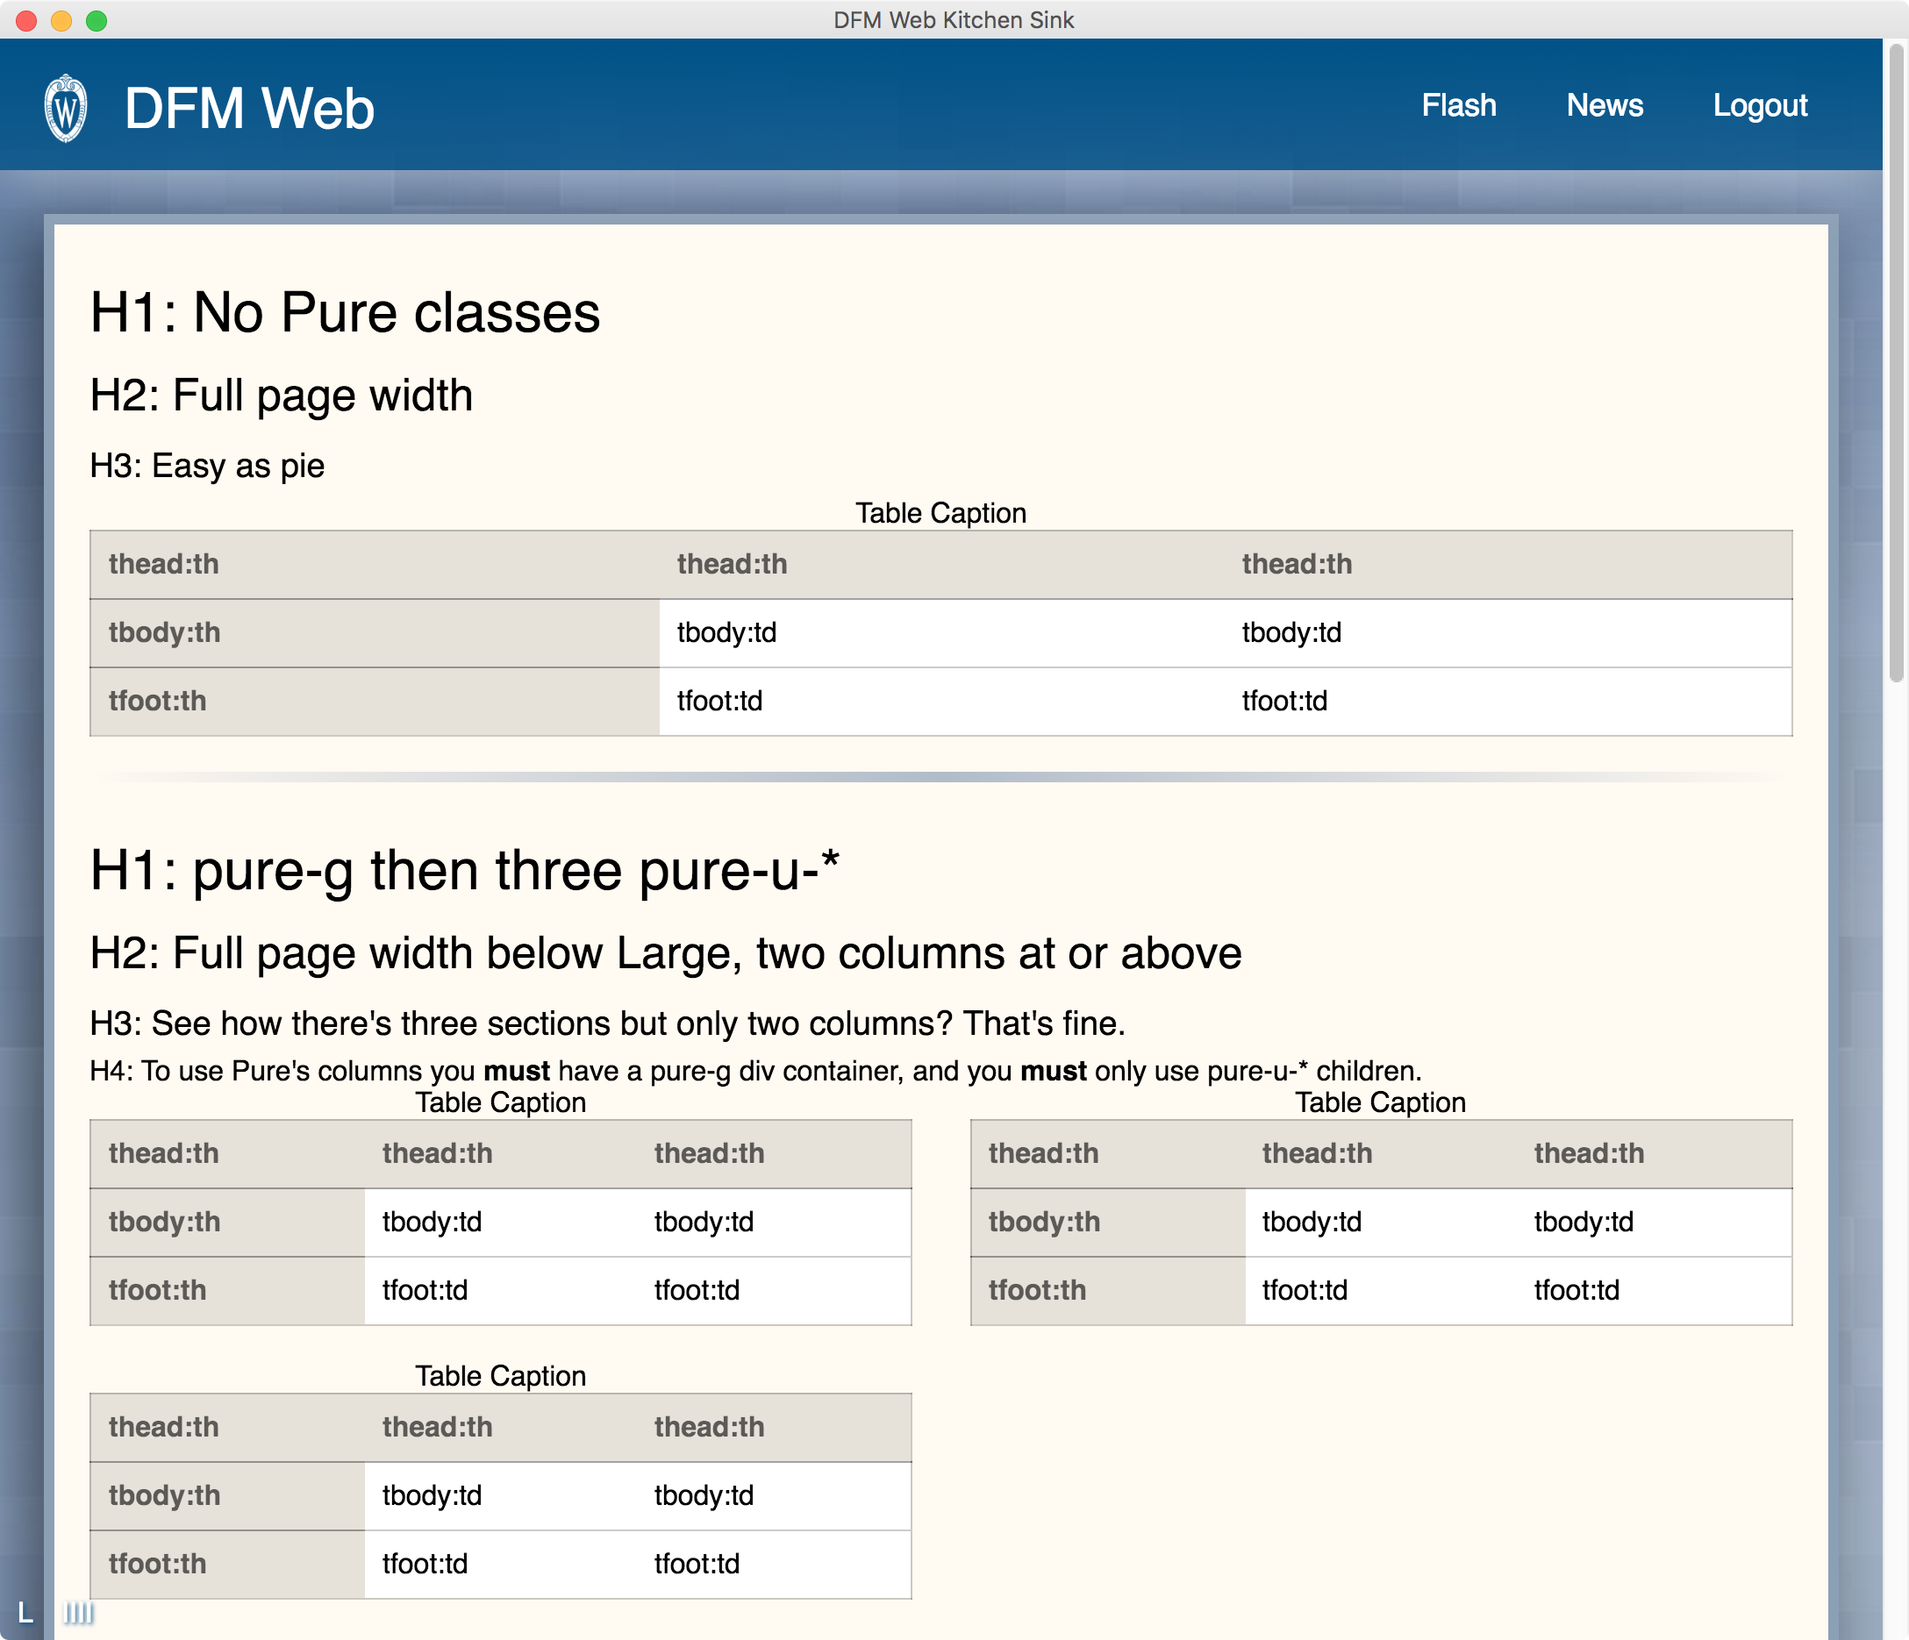
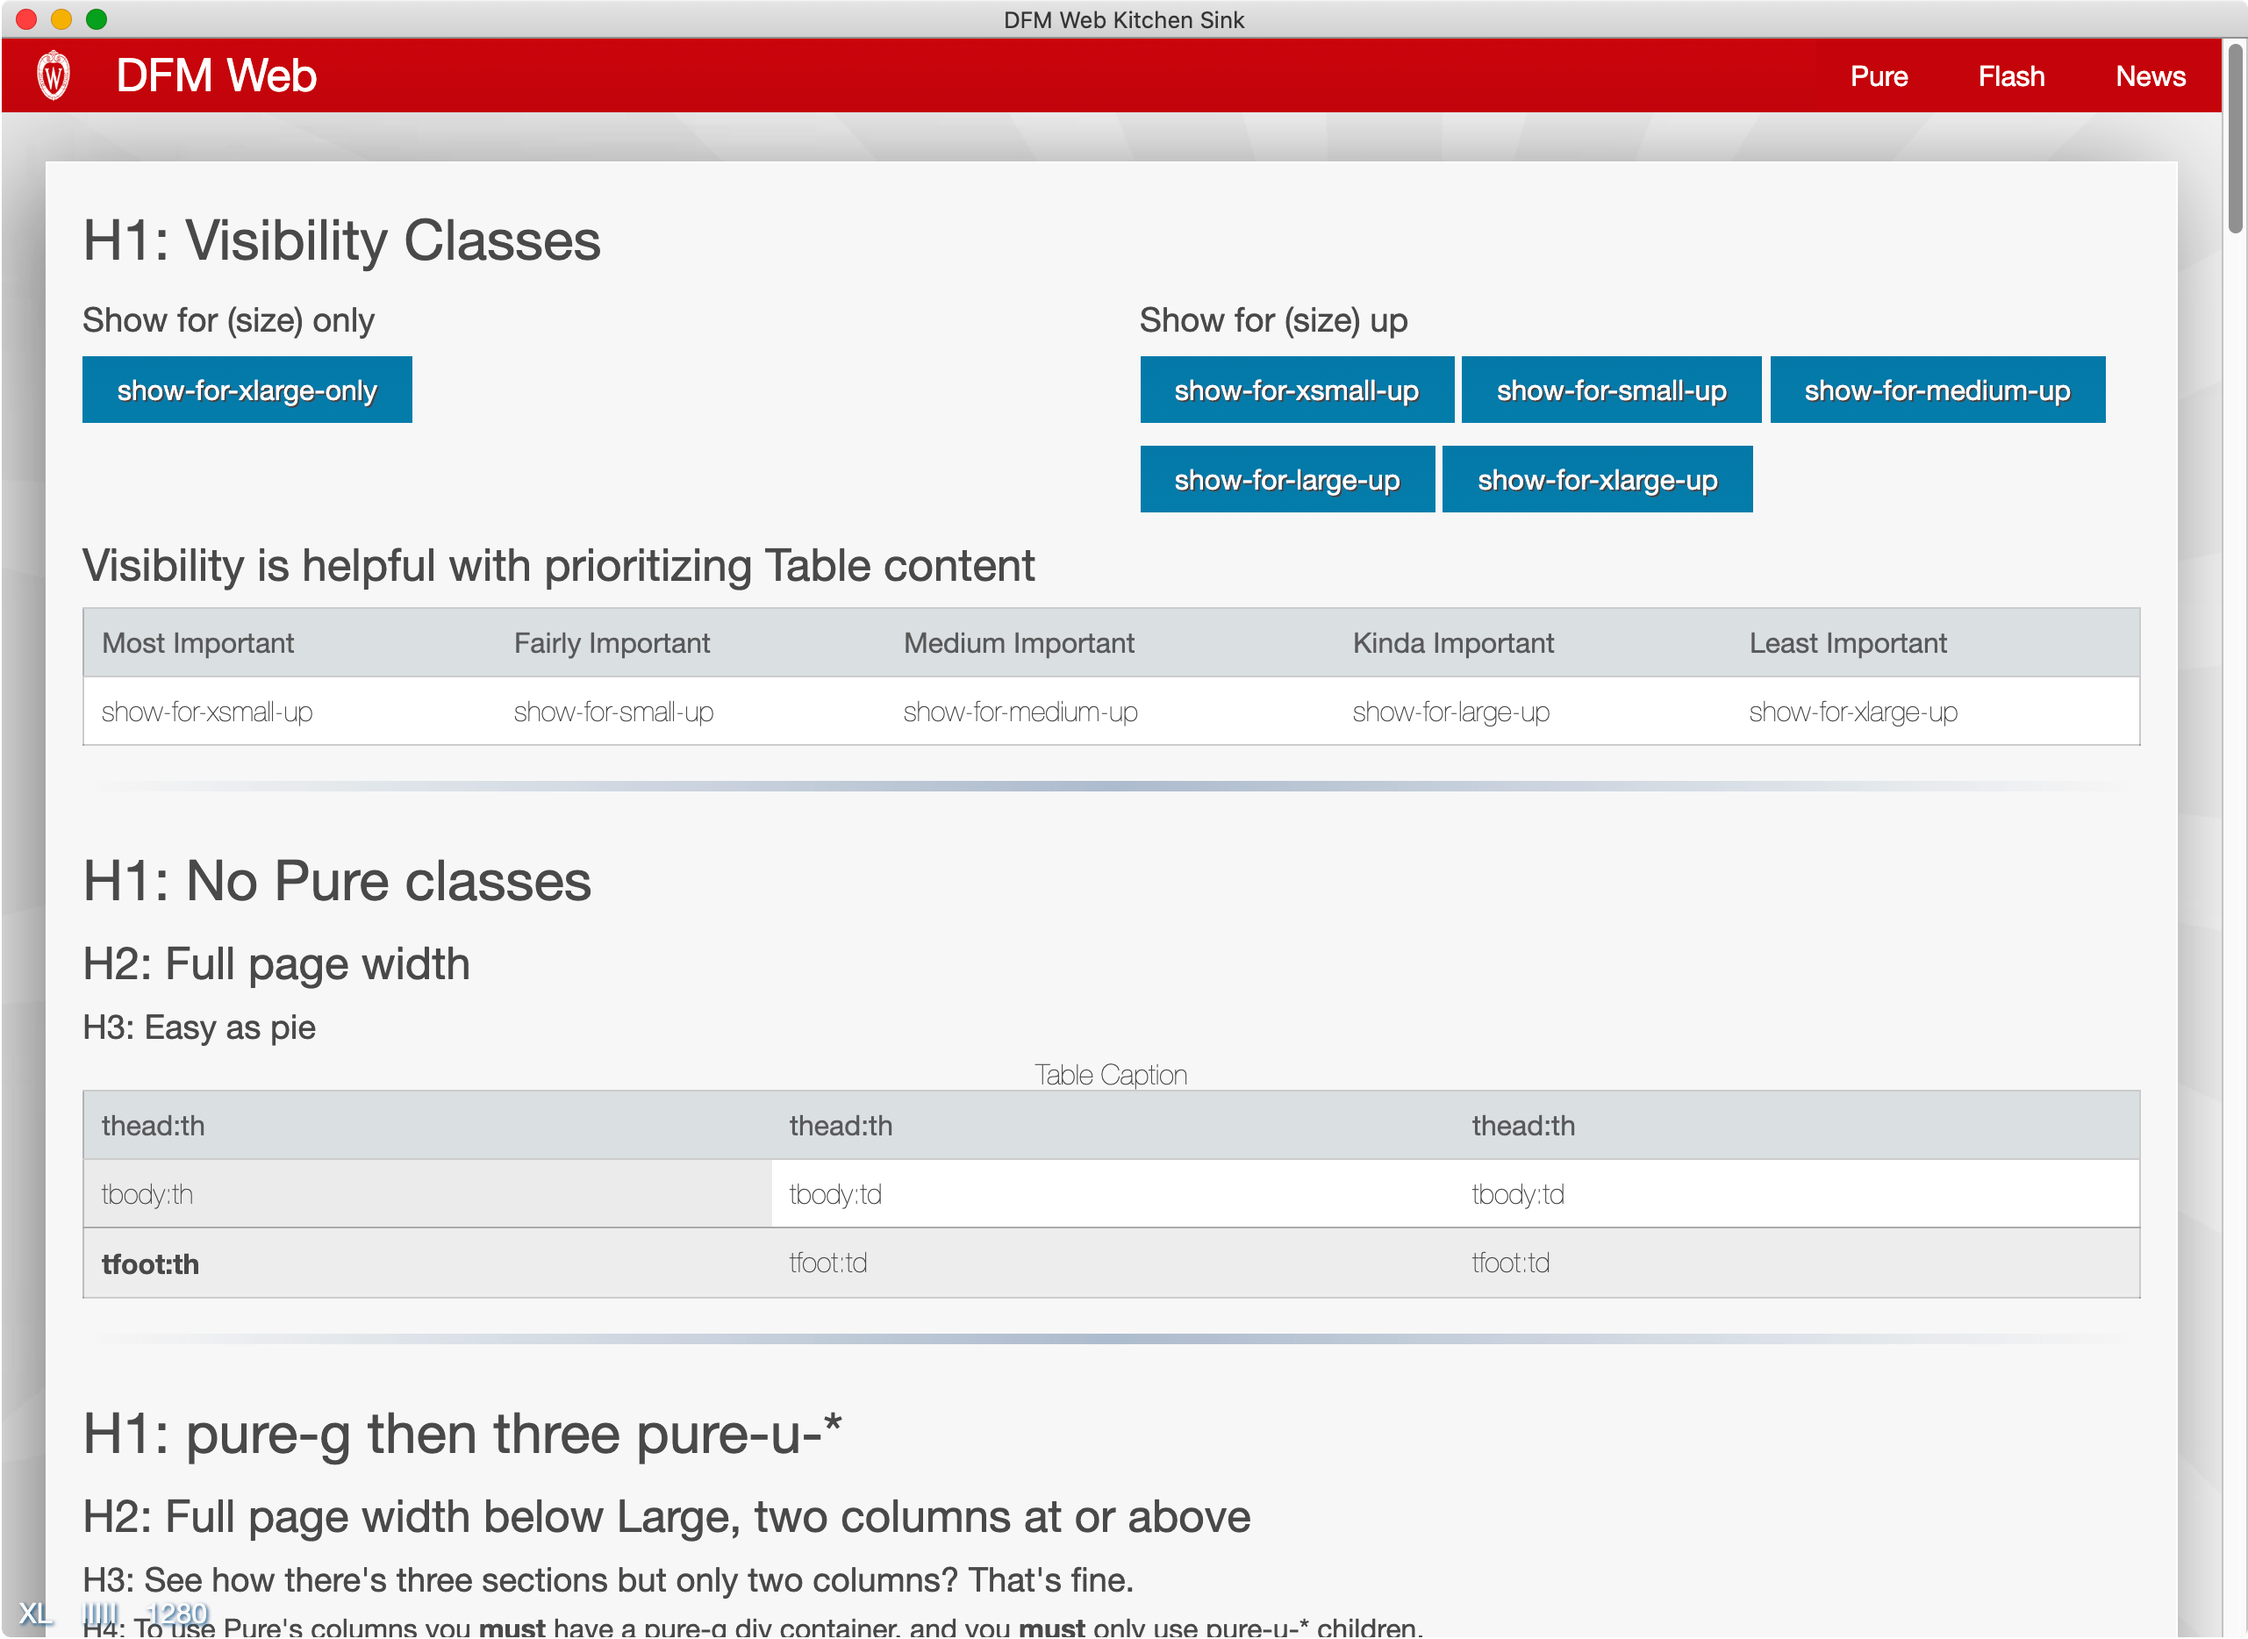
Updated screenshots, removed internet explorer only CSS.

diff --git a/app/assets/stylesheets/dfm_web/nav.css b/app/assets/stylesheets/dfm_web/nav.css
@@ -102,6 +102,7 @@ nav #nav form input[type="text"] {
 
 #nav ul ul li {
   font-weight: normal;
+  border-bottom: 1px solid rgba(255,255,255,.1);
 }
 
 #nav a {
@@ -198,7 +199,6 @@ nav > #nav > ul.right {
 /* If a menu is really long, Javascript will add "crowded" class to it. */
 #nav ul.crowded a {
   font-size: 15px;
-  border-bottom: 1px solid rgba(255,255,255,.2);
   padding: 6px 10px;
 }
 

diff --git a/app/assets/stylesheets/dfm_web/dfm_web.css b/app/assets/stylesheets/dfm_web/dfm_web.css
@@ -11,7 +11,6 @@
  *= require ./forms.css
  *= require ./tables.css
  *= require ./layout_media.css
- *= require ./internet_explorer.css
  *= require ./print.css
  */
 

diff --git a/lib/dfm_web/version.rb b/lib/dfm_web/version.rb
@@ -1,10 +1,11 @@
 module DfmWeb
-  VERSION = "3.0.0"
+  VERSION = "4.0.0"
 end
 
 
 # Version History
 
+# 4.0.0   Adopted UW design language.
 # 3.0.0   Removed all Javascript that didn't specifically power the DfmWeb UI.  May require some copy-paste form v2 to your app to upgrade.
 # 2.2.4   Check that tablesorter is defined before setting its defaults.
 # 2.2.3   Fixed small discrepancy in size definitions between Pure Grids and Visibility.

diff --git a/README.md b/README.md
@@ -50,8 +50,17 @@ config/initializers/assets.rb
 ```
 Rails.application.config.assets.precompile += %w( dfm_web/* )
 ```
+### Notes on Version 4:
+* Now using the UW look and feel.
+* UW font (verlag) cannot be added to the repo per licensing requirements.
+  - To use it in your site add verlag.css to your host app (provided by UW).
+  - It will be used if available with fallback to Helvetica etc.
+* Navbar img is no longer vertically centered in CSS.
+  - Pad your PNG/SVG with transparency.
+  - Image be scaled to 42px, but PNG should be at least double that.
 
-### Notes on Version 3:
+
+### Notes on Version 3+:
 * Javascript to do things other than run the the actual layout has been removed. Specifically:
   - ajax_load
   - auto_submit
